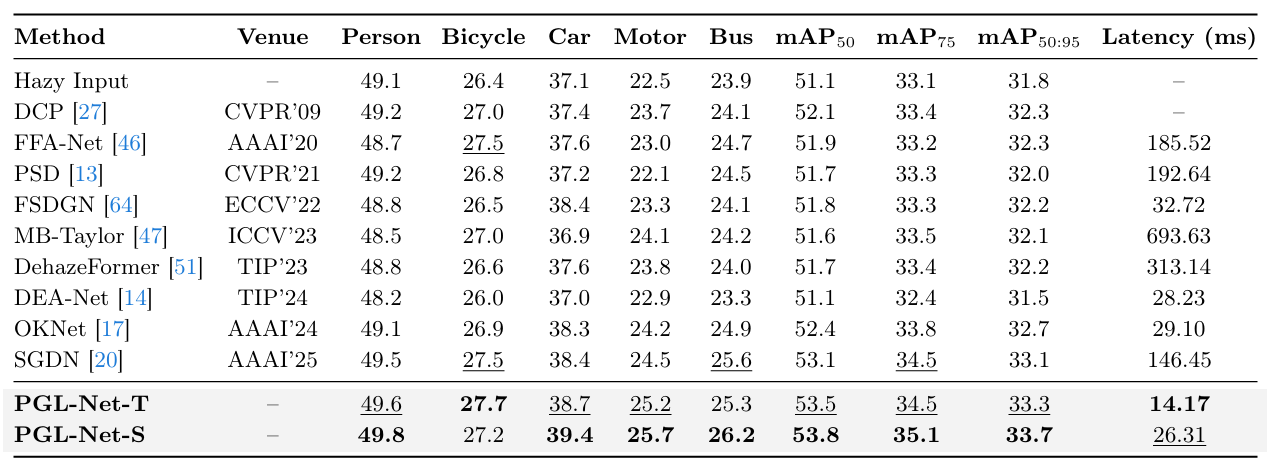
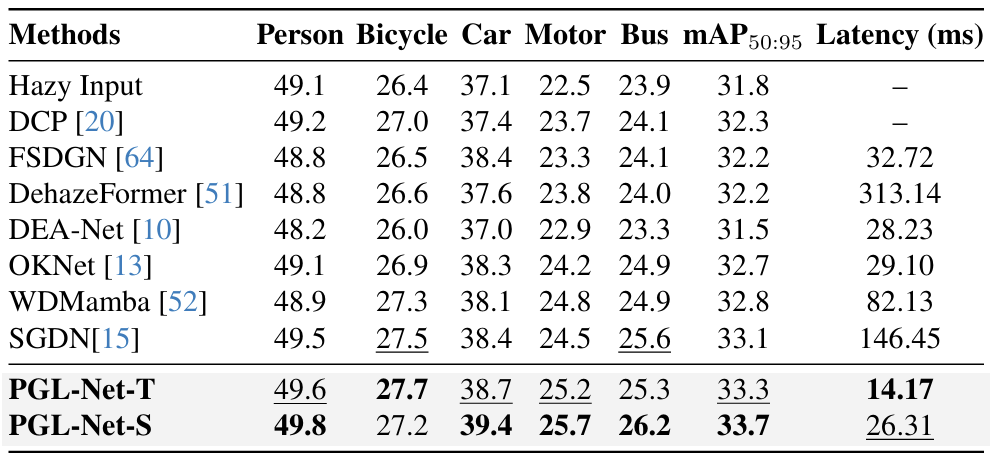
update readme

Changed region(s): [[0.0, 0.0, 0.994, 1.0], [0.8697, 0.2739, 0.9629, 0.5174]]

diff --git a/models/PGLNet.py b/models/PGLNet.py
@@ -175,6 +175,74 @@ class PAFusion(nn.Module):
         return out
 
 
+class AffineE(nn.Module):
+    """Affine-E skip fusion conditioned only on the encoder feature."""
+    def __init__(self, dim, height=2, reduction=8):
+        super(AffineE, self).__init__()
+        self.dim = dim
+
+        self.avg_pool = nn.AdaptiveAvgPool2d(1)
+
+        # Encoder conditioning branch only.
+        self.pw_enc = nn.Conv2d(dim, dim, kernel_size=1, bias=True)
+
+        self.act = nn.ReLU(inplace=True)
+
+        self.final_conv = nn.Conv2d(dim, dim * 2, kernel_size=1, bias=True)
+
+    def forward(self, in_feats):
+        up_feat = in_feats[0]
+        skip_feat = in_feats[1]
+
+        gap_skip = self.avg_pool(skip_feat)  # (B, C, 1, 1)
+        fused_stats = self.pw_enc(gap_skip)  # (B, C, 1, 1)
+        fused_stats = self.act(fused_stats)
+
+        # affine_params shape: (B, 2C, 1, 1)
+        affine_params = self.final_conv(fused_stats)
+        gamma, beta = torch.chunk(affine_params, 2, dim=1)
+
+        # Apply Affine Transformation to Skip Feature.
+        skip_aligned = skip_feat * gamma + beta
+        out = up_feat + skip_aligned
+
+        return out
+
+
+class AffineD(nn.Module):
+    """Affine-D skip fusion conditioned only on the decoder feature."""
+    def __init__(self, dim, height=2, reduction=8):
+        super(AffineD, self).__init__()
+        self.dim = dim
+
+        self.avg_pool = nn.AdaptiveAvgPool2d(1)
+
+        # Decoder conditioning branch only.
+        self.pw_dec = nn.Conv2d(dim, dim, kernel_size=1, bias=True)
+
+        self.act = nn.ReLU(inplace=True)
+
+        self.final_conv = nn.Conv2d(dim, dim * 2, kernel_size=1, bias=True)
+
+    def forward(self, in_feats):
+        up_feat = in_feats[0]
+        skip_feat = in_feats[1]
+
+        gap_up = self.avg_pool(up_feat)    # (B, C, 1, 1)
+        fused_stats = self.pw_dec(gap_up)  # (B, C, 1, 1)
+        fused_stats = self.act(fused_stats)
+
+        # affine_params shape: (B, 2C, 1, 1)
+        affine_params = self.final_conv(fused_stats)
+        gamma, beta = torch.chunk(affine_params, 2, dim=1)
+
+        # Apply Affine Transformation to Skip Feature.
+        skip_aligned = skip_feat * gamma + beta
+        out = up_feat + skip_aligned
+
+        return out
+
+
 class PGLNet(nn.Module):
     def __init__(self, kernel_size=5, base_dim=32, depths=[4, 4, 4, 4, 4, 4, 4], conv_layer=GateLayer, norm_layer=nn.BatchNorm2d,
                  gate_act=nn.Sigmoid, fusion_layer=PAFusion):
@@ -237,7 +305,8 @@ class PGLNet(nn.Module):
         return x
 
 
-__all__ = ['PGLNet', 'pglnet_t', 'pglnet_s', 'pglnet_b', 'pglnet_d']
+__all__ = ['PGLNet', 'PAFusion', 'AffineE', 'AffineD',
+           'pglnet_t', 'pglnet_s', 'pglnet_b', 'pglnet_d']
 
 def pglnet_t():
     return PGLNet(kernel_size=5, base_dim=24, depths=[2, 2, 2, 4, 2, 2, 2], conv_layer=GateLayer,

diff --git a/models/__init__.py b/models/__init__.py
@@ -1,2 +1,2 @@
-from .PGLNet import PGLNet, pglnet_t, pglnet_s, pglnet_b, pglnet_d
+from .PGLNet import AffineD, AffineE, PAFusion, PGLNet, pglnet_t, pglnet_s, pglnet_b, pglnet_d
 from .losses import *
